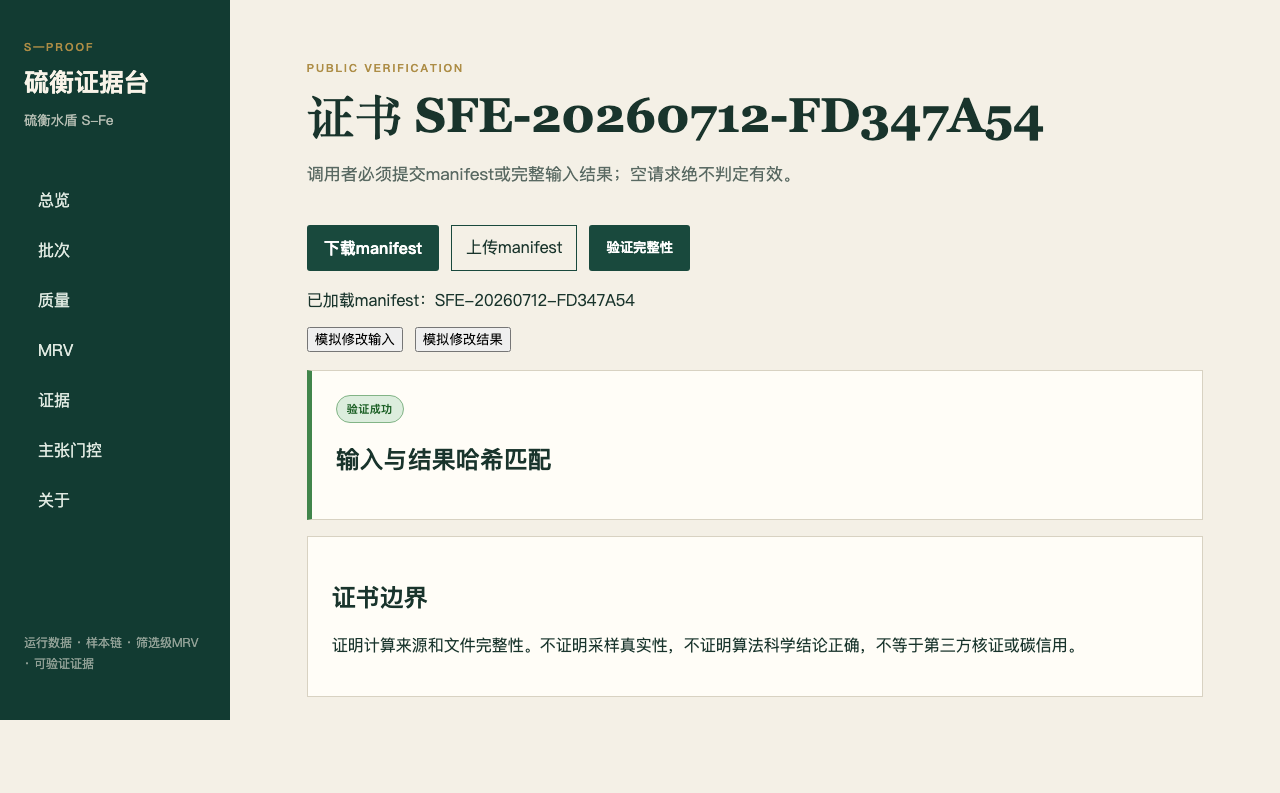
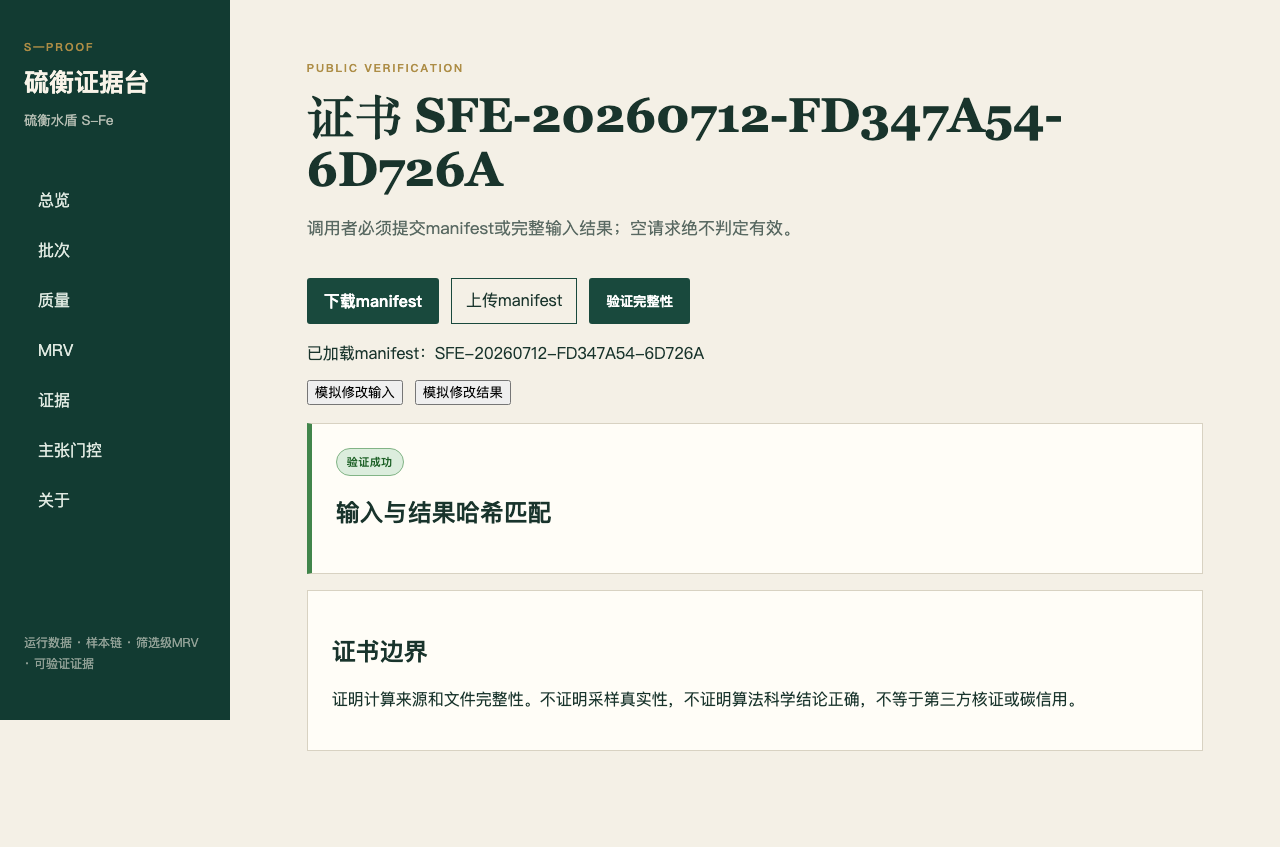
test: verify uploaded manifest input and result tampering

diff --git a/frontend/e2e/competition-flow.spec.ts b/frontend/e2e/competition-flow.spec.ts
@@ -38,6 +38,12 @@ test('真实PostgreSQL与API比赛闭环',async({page,request})=>{
   await page.getByRole('button',{name:'验证完整性'}).click();
   await expect(page.getByText('输入与结果哈希匹配')).toBeVisible();
   await page.screenshot({path:'../docs/screenshots/v02-02-manifest-valid.png',fullPage:true});
+  await page.getByRole('button',{name:'模拟修改输入'}).click();
+  await expect(page.getByText('证书绑定已被修改')).toBeVisible();
+  await page.getByRole('button',{name:'验证完整性'}).click();
+  await expect(page.getByText('输入与结果哈希匹配')).toBeVisible();
+  await page.getByRole('button',{name:'模拟修改结果'}).click();
+  await expect(page.getByText('证书绑定已被修改')).toBeVisible();
 });
 
 test('证书后端不可用时只显示无法验证',async({page})=>{
